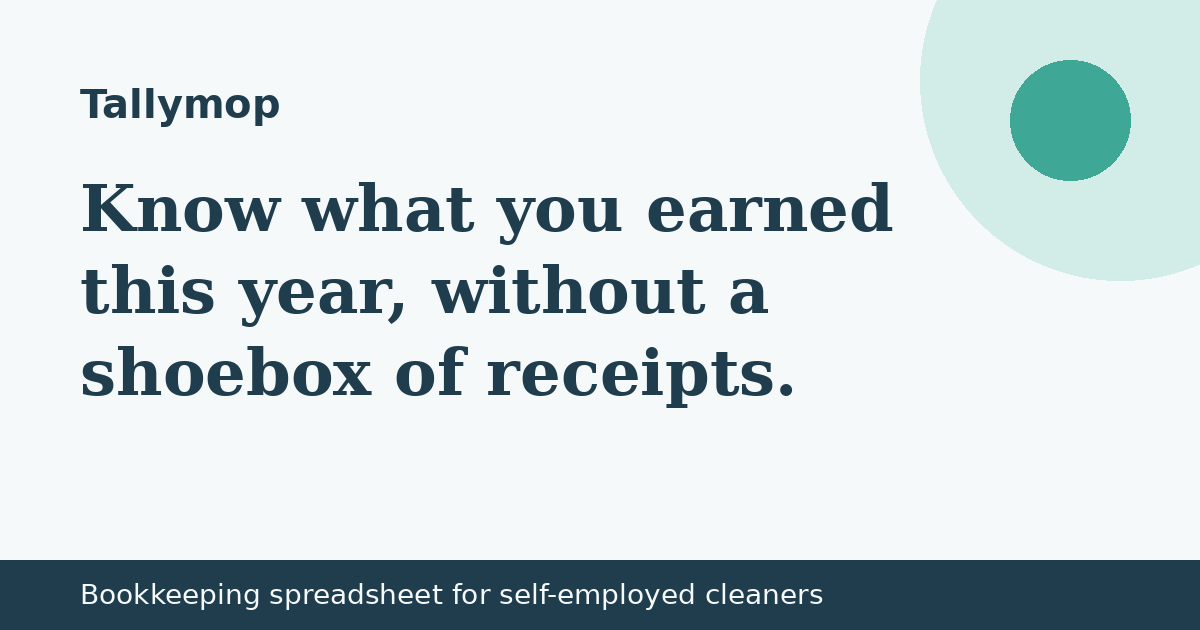
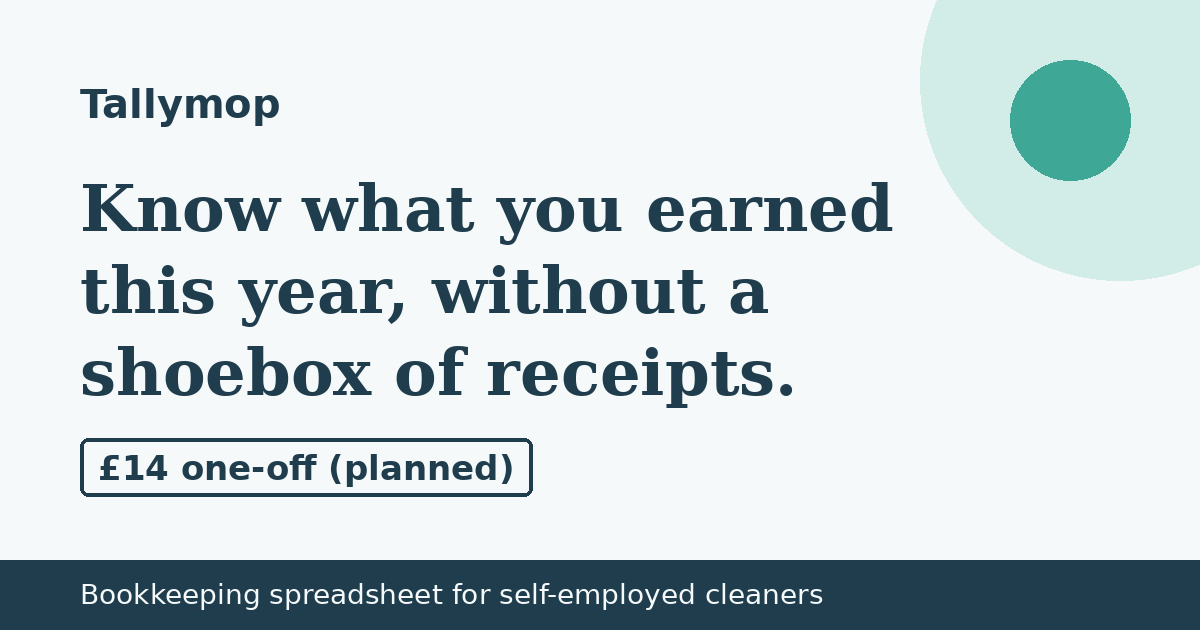
Publish site 2026-10-21 08:30 BST

Changed region(s): [[0.0617, 0.6937, 0.4625, 0.8143]]

diff --git a/index.html b/index.html
@@ -3,7 +3,7 @@
 <head>
 <meta charset="utf-8">
 <meta name="viewport" content="width=device-width, initial-scale=1">
-<meta http-equiv="Content-Security-Policy" content="default-src 'self'; img-src 'self' data: https://localreplyloop.goatcounter.com; style-src 'self'; script-src 'self'; font-src 'self'; connect-src 'self' https://formsubmit.co; form-action 'self'; base-uri 'self'; object-src 'none'">
+<meta http-equiv="Content-Security-Policy" content="default-src 'self'; img-src 'self' data: https://localreplyloop.goatcounter.com; style-src 'self'; script-src 'self'; font-src 'self'; connect-src 'self'; form-action 'self'; base-uri 'self'; object-src 'none'">
 <meta name="referrer" content="strict-origin-when-cross-origin">
 <title>Tallymop: Know what you earned this year, without a shoebox of receipts</title>
 <meta name="description" content="A Google Sheets and Excel workbook to log jobs, clients, mileage and supplies, with a year-end summary laid out in the order the Self Assessment.">
@@ -21,21 +21,14 @@
 </head>
 <body>
 <a class="skip" href="#main">Skip to content</a>
-<header><div class="wrap top"><a class="brand" href="./"><svg viewBox="0 0 64 64" aria-hidden="true" width="34" height="34"><path d="M32 0 64 32 32 64 0 32z" fill="#1F3D4D"/><text x="32" y="43" text-anchor="middle" font-family="Georgia, serif" font-weight="700" font-size="30" fill="#F5F9FA">T</text><circle cx="50" cy="50" r="6" fill="#3FA796"/></svg>Tallymop</a><nav aria-label="Primary"><a href="#how">How it works</a><a href="#faq">Questions</a><a href="#contact">Contact</a></nav></div></header><section class="hero"><div class="wrap"><span class="draft">Draft: not yet available. Enquiries welcome.</span><br><span class="eyebrow">Digital product · draft · Bookkeeping spreadsheet for self-employed cleaners</span><h1>Know what you earned this year, without a shoebox of receipts.</h1><p class="lede">Tallymop is a spreadsheet built for self-employed cleaners. Log each job and expense as you go, and the summary tab totals them into the categories Self Assessment asks about.</p><div class="ctas"><a class="btn" href="#contact" data-cta="hero">Tell me when it&#x27;s ready</a><a class="btn ghost" href="#faq" data-cta="hero-secondary">Questions</a></div><div class="art"><svg viewBox="0 0 400 400" role="img" aria-label="Decorative pattern" class="motif" preserveAspectRatio="xMidYMid slice"><circle cx="200" cy="200" r="40" fill="none" stroke="#1F3D4D" stroke-opacity="0.90" stroke-width="10"/><circle cx="200" cy="200" r="68" fill="none" stroke="#3FA796" stroke-opacity="0.78" stroke-width="9"/><circle cx="200" cy="200" r="96" fill="none" stroke="#1F3D4D" stroke-opacity="0.66" stroke-width="8"/><circle cx="200" cy="200" r="124" fill="none" stroke="#3FA796" stroke-opacity="0.54" stroke-width="7"/><circle cx="200" cy="200" r="152" fill="none" stroke="#1F3D4D" stroke-opacity="0.42" stroke-width="6"/><circle cx="200" cy="200" r="180" fill="none" stroke="#3FA796" stroke-opacity="0.30" stroke-width="5"/></svg></div></div></section>
+<header><div class="wrap top"><a class="brand" href="./"><svg viewBox="0 0 64 64" aria-hidden="true" width="34" height="34"><path d="M32 0 64 32 32 64 0 32z" fill="#1F3D4D"/><text x="32" y="43" text-anchor="middle" font-family="Georgia, serif" font-weight="700" font-size="30" fill="#F5F9FA">T</text><circle cx="50" cy="50" r="6" fill="#3FA796"/></svg>Tallymop</a><nav aria-label="Primary"><a href="#how">How it works</a><a href="#faq">Questions</a><a href="#contact">Contact</a></nav></div></header>
 <main id="main">
+<section class="hero"><div class="wrap"><span class="draft">Draft: not yet available. Enquiries welcome.</span><br><span class="eyebrow">Digital product · draft · Bookkeeping spreadsheet for self-employed cleaners</span><h1>Know what you earned this year, without a shoebox of receipts.</h1><p class="lede">Tallymop is a spreadsheet built for self-employed cleaners. Log each job and expense as you go, and the summary tab totals them into the categories Self Assessment asks about.</p><div class="ctas"><a class="btn" href="#contact" data-cta="hero">Tell me when it&#x27;s ready</a><a class="btn ghost" href="#faq" data-cta="hero-secondary">Questions</a></div><figure class="art"><svg viewBox="0 0 400 400" aria-hidden="true" focusable="false" class="motif"><path d="M50 230 h150 l-18 130 h-114z" fill="#3FA796"/><rect x="40" y="220" width="170" height="20" rx="6" fill="#1F3D4D"/><rect x="116" y="40" width="14" height="230" rx="6" fill="#1F3D4D"/><rect x="96" y="260" width="54" height="40" rx="8" fill="#D2ECE7"/><rect x="230" y="80" width="140" height="200" rx="10" fill="#1F3D4D"/><rect x="240" y="90" width="38" height="30" rx="3" fill="#3FA796"/><rect x="284" y="90" width="38" height="30" rx="3" fill="#3FA796"/><rect x="328" y="90" width="38" height="30" rx="3" fill="#3FA796"/><rect x="240" y="126" width="38" height="30" rx="3" fill="#D2ECE7"/><rect x="284" y="126" width="38" height="30" rx="3" fill="#D2ECE7"/><rect x="328" y="126" width="38" height="30" rx="3" fill="#D2ECE7"/><rect x="240" y="162" width="38" height="30" rx="3" fill="#D2ECE7"/><rect x="284" y="162" width="38" height="30" rx="3" fill="#D2ECE7"/><rect x="328" y="162" width="38" height="30" rx="3" fill="#D2ECE7"/><rect x="240" y="198" width="38" height="30" rx="3" fill="#D2ECE7"/><rect x="284" y="198" width="38" height="30" rx="3" fill="#D2ECE7"/><rect x="328" y="198" width="38" height="30" rx="3" fill="#D2ECE7"/><rect x="240" y="234" width="38" height="30" rx="3" fill="#D2ECE7"/><rect x="284" y="234" width="38" height="30" rx="3" fill="#D2ECE7"/><rect x="328" y="234" width="38" height="30" rx="3" fill="#D2ECE7"/></svg><figcaption class="fine">Illustrative</figcaption></figure></div></section>
 <section class="tint" id="how"><div class="wrap"><span class="eyebrow">How it works</span><h2>A Google Sheets and Excel workbook to log jobs, clients, mileage and supplies, with a year-end summary laid out in the order the Self Assessment pages ask for.</h2><div class="steps"><div class="step"><h3>Log jobs as you go</h3><p>Client, date, hours, amount paid.</p></div><div class="step"><h3>Add costs and miles</h3><p>Supplies, phone, and mileage at the HMRC simplified rate.</p></div><div class="step"><h3>Read the summary</h3><p>Totals by month and by Self Assessment category.</p></div></div></div></section>
 <section><div class="wrap"><span class="eyebrow">Who it is for</span><h2>For self-employed domestic cleaners in their first two years of trading.</h2><div class="points"><div class="point"><h3>Built for cleaning rounds</h3><p>Regular clients, one-offs and end-of-tenancy jobs.</p></div><div class="point"><h3>Works in Sheets and Excel</h3><p>No subscription, no app to learn.</p></div><div class="point"><h3>Plain about limits</h3><p>It does not file your return or give tax advice.</p></div></div></div></section>
-<section class="tint" id="price"><div class="wrap"><span class="eyebrow">Planned price</span><div class="pricebox"><p class="price">£14 one-off (planned)</p><p>This product is a draft and is not on sale yet. Nothing can be bought on this website. Register interest and we&#x27;ll email you when it&#x27;s ready.</p></div></div></section>
+<section class="tint" id="price"><div class="wrap"><span class="eyebrow">Planned price</span><div class="pricebox"><p class="price">£14 one-off (planned)</p><p>This product is a draft and is not on sale yet. Nothing can be bought on this website. You can register interest; we can’t promise a reply or a date yet.</p></div></div></section>
 <section id="faq"><div class="wrap"><span class="eyebrow">Questions</span><h2>Common questions</h2><details><summary>Is it on sale now?</summary><p>Not yet. Tallymop is a draft product. Ask to hear when it&#x27;s ready.</p></details><details><summary>Does it file my tax return?</summary><p>No. It organises your figures. You or your accountant still file.</p></details><details><summary>Will it handle Making Tax Digital?</summary><p>Not on its own. If MTD applies to you, you&#x27;ll need compatible software too.</p></details><p class="fine" style="margin-top:18px">Tallymop is a spreadsheet template, not tax advice. Check anything you&#x27;re unsure about with HMRC or an accountant.</p></div></section>
-<section class="tint" id="contact"><div class="wrap contact-grid"><div><span class="eyebrow">Contact</span><h2>Register interest</h2><p>Tallymop is new and run by one person. Every message is read and answered by email, usually within two working days.</p><p>Email: <a href="mailto:localreply+tallymop@agentmail.to">localreply+tallymop@agentmail.to</a></p></div><form class="form" data-contact data-formsubmit="localreply+tallymop@agentmail.to" data-email="localreply+tallymop@agentmail.to" data-subject="Tallymop enquiry" novalidate>
-<div><label for="f-name">Your name</label><input id="f-name" name="name" autocomplete="name" required></div>
-<div><label for="f-email">Email</label><input id="f-email" name="email" type="email" autocomplete="email" required></div>
-<div><label for="f-plan">About</label><select id="f-plan" name="plan"><option value="Tell me when it&#x27;s ready">Tell me when it&#x27;s ready</option><option value="I have a question">I have a question</option></select></div>
-<div><label for="f-message">Message</label><textarea id="f-message" name="message"></textarea></div>
-<p class="hint">Your message goes to our inbox through FormSubmit (formsubmit.co), our form-delivery provider. If that fails, your own email app opens instead. See our <a href="privacy.html">privacy notice</a>.</p>
-<button class="btn" type="submit">Tell me when it&#x27;s ready</button>
-<p class="form-status" role="status" aria-live="polite"></p>
-</form></div></section>
+<section class="tint" id="contact"><div class="wrap contact-grid"><div><span class="eyebrow">Contact</span><h2>Register interest</h2><p>Tallymop is new and run by one person. Messages go to our inbox. We can’t promise a reply or a timeframe yet.</p><p>Email: <a href="mailto:localreply+tallymop@agentmail.to">localreply+tallymop@agentmail.to</a></p></div><div class="form contact-mail"><p><a class="btn" href="mailto:localreply+tallymop@agentmail.to?subject=%5BTallymop%5D%20Enquiry" data-cta="enquire">Email Tallymop</a></p><p class="hint">This opens your own email app. Nothing is sent through this website. See our <a href="privacy.html">privacy notice</a>.</p></div></div></section>
 </main><footer><div class="wrap"><p>Operated by a UK sole trader trading as Tallymop. Contact: localreply+tallymop@agentmail.to. Postal address available on written request.</p>
 <p><a href="privacy.html">Privacy</a><a href="terms.html">Terms</a><a href="./#contact">Contact</a></p>
 <p class="fine">Tallymop is a spreadsheet template, not tax advice. Check anything you&#x27;re unsure about with HMRC or an accountant.</p></div></footer>

diff --git a/privacy.html b/privacy.html
@@ -3,7 +3,7 @@
 <head>
 <meta charset="utf-8">
 <meta name="viewport" content="width=device-width, initial-scale=1">
-<meta http-equiv="Content-Security-Policy" content="default-src 'self'; img-src 'self' data: https://localreplyloop.goatcounter.com; style-src 'self'; script-src 'self'; font-src 'self'; connect-src 'self' https://formsubmit.co; form-action 'self'; base-uri 'self'; object-src 'none'">
+<meta http-equiv="Content-Security-Policy" content="default-src 'self'; img-src 'self' data: https://localreplyloop.goatcounter.com; style-src 'self'; script-src 'self'; font-src 'self'; connect-src 'self'; form-action 'self'; base-uri 'self'; object-src 'none'">
 <meta name="referrer" content="strict-origin-when-cross-origin">
 <title>Privacy notice | Tallymop</title>
 <meta name="description" content="Privacy notice for Tallymop.">
@@ -21,13 +21,13 @@
 </head>
 <body>
 <a class="skip" href="#main">Skip to content</a>
-<header><div class="wrap top"><a class="brand" href="./"><svg viewBox="0 0 64 64" aria-hidden="true" width="34" height="34"><path d="M32 0 64 32 32 64 0 32z" fill="#1F3D4D"/><text x="32" y="43" text-anchor="middle" font-family="Georgia, serif" font-weight="700" font-size="30" fill="#F5F9FA">T</text><circle cx="50" cy="50" r="6" fill="#3FA796"/></svg>Tallymop</a><nav aria-label="Primary"><a href="#how">How it works</a><a href="#faq">Questions</a><a href="#contact">Contact</a></nav></div></header><main id="main"><section><div class="wrap legal"><h1>Privacy notice</h1><p class="fine">Last updated 19 October 2026</p>
+<header><div class="wrap top"><a class="brand" href="./"><svg viewBox="0 0 64 64" aria-hidden="true" width="34" height="34"><path d="M32 0 64 32 32 64 0 32z" fill="#1F3D4D"/><text x="32" y="43" text-anchor="middle" font-family="Georgia, serif" font-weight="700" font-size="30" fill="#F5F9FA">T</text><circle cx="50" cy="50" r="6" fill="#3FA796"/></svg>Tallymop</a><nav aria-label="Primary"><a href="#how">How it works</a><a href="#faq">Questions</a><a href="#contact">Contact</a></nav></div></header><main id="main"><section><div class="wrap legal"><h1>Privacy notice</h1><p class="fine">Last updated 20 October 2026</p>
 <p><span>Operated by a UK sole trader trading as Tallymop. Contact: localreply+tallymop@agentmail.to. Postal address available on written request.</span> We are the controller for the personal data described here. For anything in this notice, email <a href="mailto:localreply+tallymop@agentmail.to">localreply+tallymop@agentmail.to</a> with “Tallymop” in the subject line.</p>
-<h2>What we collect</h2><p>If you use the form or email us, we receive your name, email address, anything you write in your message and, if you give it, your postcode or town. We use it only to reply to you and, if you ask for it, to deal with your enquiry.</p>
+<h2>What we collect</h2><p>If you email us, we receive your name, email address, anything you write in your message and, if you give it, your postcode or town. We use it only to reply to you and, if you ask for it, to deal with your enquiry.</p>
 <h2>Lawful basis</h2><p>Replying to an enquiry you send us is in our legitimate interests, or steps taken at your request before any agreement (UK GDPR Article 6(1)(f) and 6(1)(b)).</p>
-<h2>Who processes it for us</h2><p>FormSubmit (formsubmit.co) delivers form messages to our inbox. AgentMail (agentmail.to) hosts the inbox. GitHub Pages hosts this website and may log technical data such as IP addresses for security. Some of these providers process data outside the UK under their own safeguards.</p>
+<h2>Who processes it for us</h2><p>AgentMail (agentmail.to) hosts our inbox. GitHub Pages hosts this website and may log technical data such as IP addresses for security. Some of these providers process data outside the UK under their own safeguards.</p>
 <h2>Cookies and analytics</h2><p>We set no cookies. We count page views with GoatCounter, which records the page, referrer and screen size but no cookies and no personal profile. It does not run if your browser sends Do Not Track or Global Privacy Control.</p>
-<h2>How long we keep it</h2><p>We keep enquiry emails for up to 12 months after our last contact, unless you become a customer, in which case we keep records as the law requires.</p>
+<h2>How long we keep it</h2><p>We delete enquiry and order data 30 days after our last contact or after delivery. We keep only the basic order record that tax law requires.</p>
 <h2>Your rights</h2><p>You can ask for a copy of your data, ask us to correct or delete it, or object to how we use it, by emailing <a href="mailto:localreply+tallymop@agentmail.to">localreply+tallymop@agentmail.to</a>. You can complain to the Information Commissioner's Office (ico.org.uk).</p></div></section></main><footer><div class="wrap"><p>Operated by a UK sole trader trading as Tallymop. Contact: localreply+tallymop@agentmail.to. Postal address available on written request.</p>
 <p><a href="privacy.html">Privacy</a><a href="terms.html">Terms</a><a href="./#contact">Contact</a></p>
 <p class="fine">Tallymop is a spreadsheet template, not tax advice. Check anything you&#x27;re unsure about with HMRC or an accountant.</p></div></footer>

diff --git a/assets/site.css b/assets/site.css
@@ -1,7 +1,7 @@
 @font-face{font-family:'IBM Plex Mono';font-weight:500;font-style:normal;font-display:swap;src:url(fonts/ibm-plex-mono-latin-500-normal.woff2) format('woff2')}
 @font-face{font-family:'IBM Plex Sans';font-weight:400;font-style:normal;font-display:swap;src:url(fonts/ibm-plex-sans-latin-400-normal.woff2) format('woff2')}
 @font-face{font-family:'IBM Plex Sans';font-weight:600;font-style:normal;font-display:swap;src:url(fonts/ibm-plex-sans-latin-600-normal.woff2) format('woff2')}
-:root{--ink:#1F3D4D;--paper:#F5F9FA;--acc:#3FA796;--acc-text:#2E796D;--on-acc:#111111;--soft:#D2ECE7;--on-ink:#F5F9FA;--r:4px;--br:4px;--head:'IBM Plex Mono', ui-monospace, monospace;--body:'IBM Plex Sans', system-ui, sans-serif}
+:root{--ink:#1F3D4D;--paper:#F5F9FA;--acc:#3FA796;--acc-text:#25645A;--on-acc:#111111;--acc-btn:#3FA796;--soft:#D2ECE7;--on-ink:#F5F9FA;--r:4px;--br:4px;--head:'IBM Plex Mono', ui-monospace, monospace;--body:'IBM Plex Sans', system-ui, sans-serif}
 *,*::before,*::after{box-sizing:border-box}html{scroll-behavior:smooth}@media (prefers-reduced-motion:reduce){html{scroll-behavior:auto}*{transition:none!important}}
 body{margin:0;font-family:var(--body);color:var(--ink);background:var(--paper);line-height:1.6;font-size:17px;-webkit-font-smoothing:antialiased}
 h1,h2,h3{font-family:var(--head);line-height:1.15;margin:0 0 .5em;letter-spacing:-.01em}h1{font-size:clamp(2.1rem,5vw,3.6rem)}h2{font-size:clamp(1.5rem,3vw,2.2rem)}h3{font-size:1.15rem}
@@ -10,11 +10,11 @@ p{margin:0 0 1em}a{color:var(--ink);text-decoration-color:var(--acc);text-underl
 :focus-visible{outline:3px solid var(--acc);outline-offset:2px}
 .top{display:flex;align-items:center;justify-content:space-between;padding:18px 0;gap:16px}.brand{display:flex;align-items:center;gap:10px;font-family:var(--head);font-weight:700;font-size:1.25rem;text-decoration:none}
 .top nav a{margin-left:18px;font-size:.95rem;text-decoration:none}.top nav a:hover{text-decoration:underline}
-.btn{display:inline-block;background:var(--acc);color:var(--on-acc);padding:13px 22px;border-radius:var(--br);font-weight:600;text-decoration:none;border:2px solid var(--acc);cursor:pointer;font:inherit;font-weight:600}
-.btn:hover{filter:brightness(.94)}.btn.ghost{background:transparent;color:var(--ink);border-color:var(--ink)}
+.btn{display:inline-block;background:var(--acc-btn);color:var(--on-acc);padding:13px 22px;border-radius:var(--br);font-weight:600;text-decoration:none;border:2px solid var(--acc-btn);cursor:pointer;font:inherit;font-weight:600}
+.btn:hover{filter:none;box-shadow:inset 0 0 0 2px currentColor}.btn.ghost{background:transparent;color:var(--ink);border-color:var(--ink)}
 .eyebrow{display:inline-block;font-size:.8rem;letter-spacing:.12em;text-transform:uppercase;font-weight:600;color:var(--acc-text);margin-bottom:12px}
 .hero{padding:48px 0 64px}.hero .lede{font-size:1.15rem;max-width:40em}.ctas{display:flex;gap:12px;flex-wrap:wrap;margin-top:22px}
-.motif{width:100%;height:auto;max-width:420px;display:block}
+.motif{width:100%;height:auto;max-width:420px;display:block}.art{margin:0}
 .draft{display:inline-block;background:var(--soft);border:1px dashed var(--ink);padding:3px 10px;border-radius:999px;font-size:.82rem;font-weight:600;margin-bottom:14px}
 section{padding:56px 0}.tint{background:var(--soft)}
 .steps{display:grid;grid-template-columns:repeat(auto-fit,minmax(220px,1fr));gap:22px;counter-reset:s}
@@ -25,8 +25,8 @@ section{padding:56px 0}.tint{background:var(--soft)}
 details{border-bottom:1px solid color-mix(in srgb,var(--ink) 18%,transparent);padding:14px 0}summary{cursor:pointer;font-weight:600}details p{margin-top:10px}
 .form{display:grid;gap:14px;max-width:620px}.form label{font-weight:600;font-size:.95rem;display:block;margin-bottom:4px}
 .form input,.form textarea,.form select{width:100%;padding:12px;border:1.5px solid color-mix(in srgb,var(--ink) 40%,transparent);border-radius:calc(var(--r)/2);font:inherit;background:#fff;color:#111}
-.form textarea{min-height:120px}.hint,.fine{font-size:.88rem;opacity:.85}.form-status{font-weight:600}
-.contact-grid{display:grid;grid-template-columns:1fr 1.2fr;gap:40px}@media(max-width:800px){.contact-grid{grid-template-columns:1fr}.top nav{display:none}}
+.form textarea{min-height:120px}.hint,.fine{font-size:.88rem}.form-status{font-weight:600}
+.contact-grid{display:grid;grid-template-columns:1fr 1.2fr;gap:40px}@media(max-width:800px){.contact-grid{grid-template-columns:1fr}.top nav a:not([href="#contact"]){display:none}.top nav a{margin-left:0;padding:10px 0;font-weight:600}}
 footer{padding:36px 0 48px;font-size:.9rem;border-top:1px solid color-mix(in srgb,var(--ink) 15%,transparent)}footer a{margin-right:14px}
 .tool{background:var(--paper);border:2px solid var(--ink);border-radius:var(--r);padding:26px;max-width:640px}.tool .row{display:grid;grid-template-columns:1fr 140px;gap:12px;align-items:center;margin-bottom:10px}
 .tool input[type=number]{padding:10px;border:1.5px solid var(--ink);border-radius:8px;font:inherit;width:100%}.result{margin-top:16px;padding:16px;background:var(--soft);border-radius:calc(var(--r)/2);min-height:3em}

diff --git a/_shared/kit.js b/_shared/kit.js
@@ -69,24 +69,8 @@
     form.addEventListener("submit", function (e) {
       e.preventDefault();
       if (!form.reportValidity()) return;
-      // 2026-10-14: if data-formsubmit is set, deliver via FormSubmit.co straight to the brand inbox; mailto stays as fallback.
-      var fsTok = form.getAttribute("data-formsubmit");
-      if (fsTok && !form.__fsFallback && window.fetch) {
-        var fd = new FormData(form), payload = {}, st = form.querySelector("[role=status]");
-        fd.forEach(function (v, k) { if (k !== "consent") payload[k] = String(v); });
-        payload._subject = (form.getAttribute("data-subject") || "Enquiry") + (payload.business ? " — " + payload.business : "");
-        if (payload.email) payload._replyto = payload.email;
-        payload._captcha = "false"; payload._template = "table";
-        fetch("https://formsubmit.co/ajax/" + fsTok, { method: "POST", headers: { "Content-Type": "application/json", "Accept": "application/json" }, body: JSON.stringify(payload) })
-          .then(function (r) { return r.json(); })
-          .then(function (j) {
-            if (String(j.success) !== "true") throw new Error("fs");
-            if (st) { st.textContent = "Thanks" + (payload.name ? ", " + payload.name.trim().split(" ")[0] : "") + " — your message has been sent. We reply by email."; st.classList.add("is-visible"); }
-            track("contact_sent", { plan: payload.plan || null }); form.reset();
-          })
-          .catch(function () { form.__fsFallback = true; if (st) { st.textContent = "Sending didn't work — opening your email app instead."; st.classList.add("is-visible"); } form.requestSubmit ? form.requestSubmit() : form.dispatchEvent(new Event("submit", { cancelable: true })); });
-        return;
-      }
+      // The form only composes an email
+      // in the visitor's own mail app; nothing is sent through any third-party form processor.
       var to = form.getAttribute("data-email") || cfg.contactEmail;
       var data = new FormData(form);
       var name = (data.get("name") || "").toString().trim();

diff --git a/_shared/kit.css b/_shared/kit.css
@@ -73,6 +73,7 @@ p { margin: 0; }
 .mobile-nav.is-open { display: block; }
 .mobile-nav a { display: flex; align-items: center; min-height: 52px; padding: 0 1.25rem; color: var(--text); text-decoration: none; font-weight: 500; border-bottom: 1px solid var(--line); }
 .mobile-nav .btn { margin: 1rem 1.25rem 1.25rem; display: flex; }
+.mobile-nav .btn--primary, .mobile-nav .btn--primary:hover { color: #fff; }
 @media (min-width: 60rem) {
   .nav { display: flex; }
   .site-header .header-cta { display: inline-flex; margin-left: .75rem; }
@@ -329,3 +330,8 @@ html[data-paused="true"] [data-cta="checkout"] { pointer-events: none; opacity: 
 @media (min-width: 60rem) { .pricing.pricing--single { grid-template-columns: 1fr; } }
 .tier-more { max-width: 64rem; margin: 1.25rem auto 0; text-align: center; color: var(--muted); font-size: .9375rem; line-height: 1.6; }
 .tier-more a { font-weight: 600; white-space: nowrap; }
+
+.site-header .header-link { display: inline-flex; color: var(--ink); font-weight: 600; text-decoration: underline; text-underline-offset: .2em; min-height: 44px; align-items: center; padding: 0 .25rem; }
+@media (max-width: 59.99rem) { .site-header .header-link { display: none; } }
+.btn-row .text-link { display: inline-flex; align-items: center; min-height: 48px; padding: 0 .25rem; color: var(--ink); font-weight: 600; text-decoration: underline; text-underline-offset: .2em; }
+.btn-row .text-link:hover, .site-header .header-link:hover { color: var(--accent-strong); }

diff --git a/404.html b/404.html
@@ -3,7 +3,7 @@
 <head>
 <meta charset="utf-8">
 <meta name="viewport" content="width=device-width, initial-scale=1">
-<meta http-equiv="Content-Security-Policy" content="default-src 'self'; img-src 'self' data: https://localreplyloop.goatcounter.com; style-src 'self'; script-src 'self'; font-src 'self'; connect-src 'self' https://formsubmit.co; form-action 'self'; base-uri 'self'; object-src 'none'">
+<meta http-equiv="Content-Security-Policy" content="default-src 'self'; img-src 'self' data: https://localreplyloop.goatcounter.com; style-src 'self'; script-src 'self'; font-src 'self'; connect-src 'self'; form-action 'self'; base-uri 'self'; object-src 'none'">
 <meta name="referrer" content="strict-origin-when-cross-origin">
 <title>Page not found | Tallymop</title>
 <meta name="description" content="Page not found for Tallymop.">

diff --git a/terms.html b/terms.html
@@ -3,7 +3,7 @@
 <head>
 <meta charset="utf-8">
 <meta name="viewport" content="width=device-width, initial-scale=1">
-<meta http-equiv="Content-Security-Policy" content="default-src 'self'; img-src 'self' data: https://localreplyloop.goatcounter.com; style-src 'self'; script-src 'self'; font-src 'self'; connect-src 'self' https://formsubmit.co; form-action 'self'; base-uri 'self'; object-src 'none'">
+<meta http-equiv="Content-Security-Policy" content="default-src 'self'; img-src 'self' data: https://localreplyloop.goatcounter.com; style-src 'self'; script-src 'self'; font-src 'self'; connect-src 'self'; form-action 'self'; base-uri 'self'; object-src 'none'">
 <meta name="referrer" content="strict-origin-when-cross-origin">
 <title>Terms of use | Tallymop</title>
 <meta name="description" content="Terms of use for Tallymop.">
